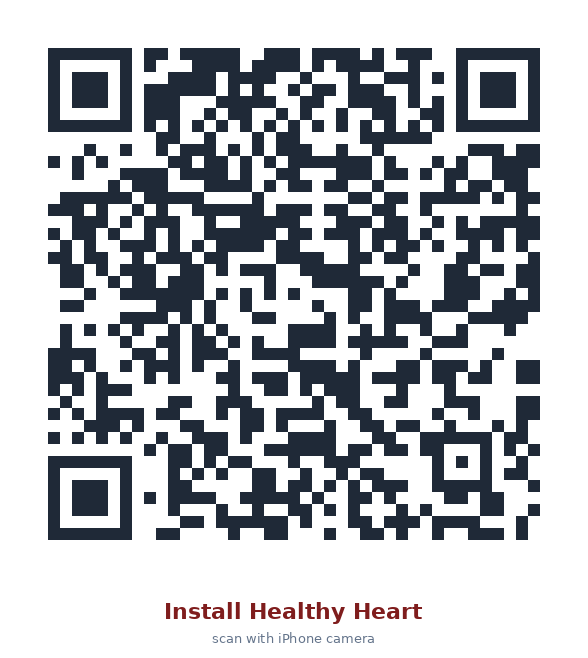
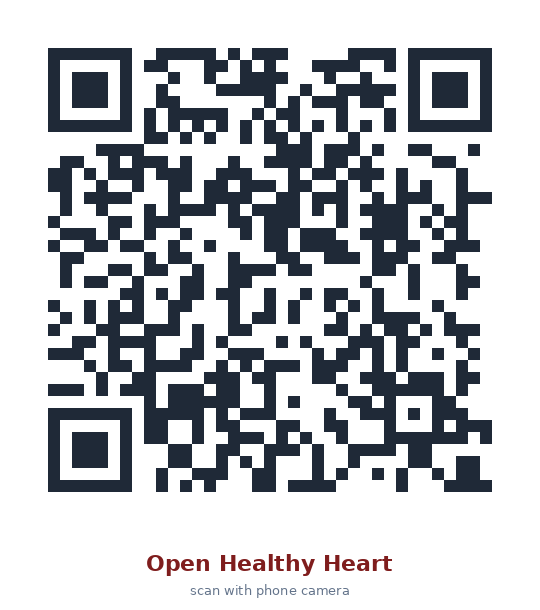
Add files via upload
Revisions

diff --git a/install-hearthealthy.html b/install-hearthealthy.html
@@ -63,10 +63,10 @@
 <h2>Open it on your phone — fastest way</h2>
 
 <div class="qr-block">
-  <img src="HealthyHeart-install-QR.png" alt="QR code linking to Healthy Heart install page">
+  <img src="HealthyHeart-install-QR.png" alt="QR code that opens the Healthy Heart app">
   <div class="qr-text">
     <strong>Scan with your phone's camera.</strong>
-    Point your iPhone or Android camera at this code. A banner appears — tap it to open Healthy Heart in your browser. No typing required. Then follow the install steps below for your device.
+    Point your iPhone or Android camera at this code. A banner appears &mdash; tap it to open Healthy Heart directly in your phone's browser. No typing required. Once the app is open, follow the install steps below for your device to pin it to your home screen.
   </div>
 </div>
 
